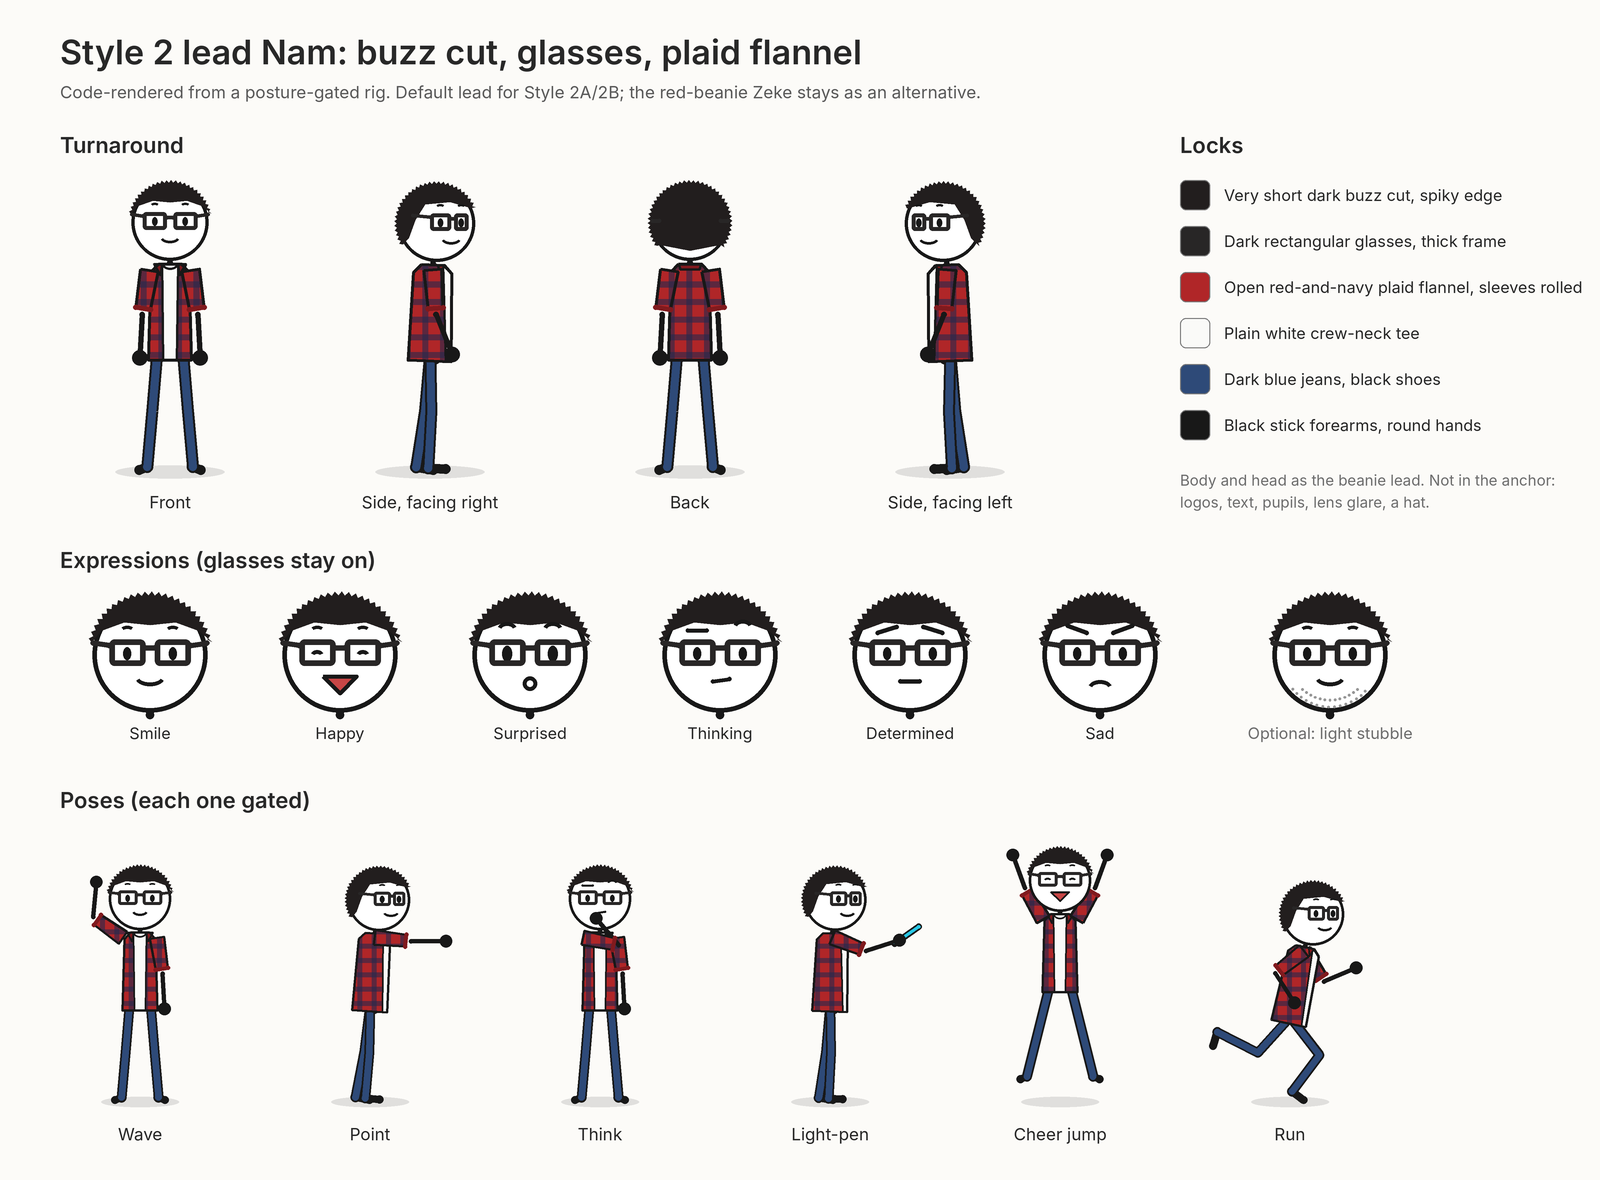
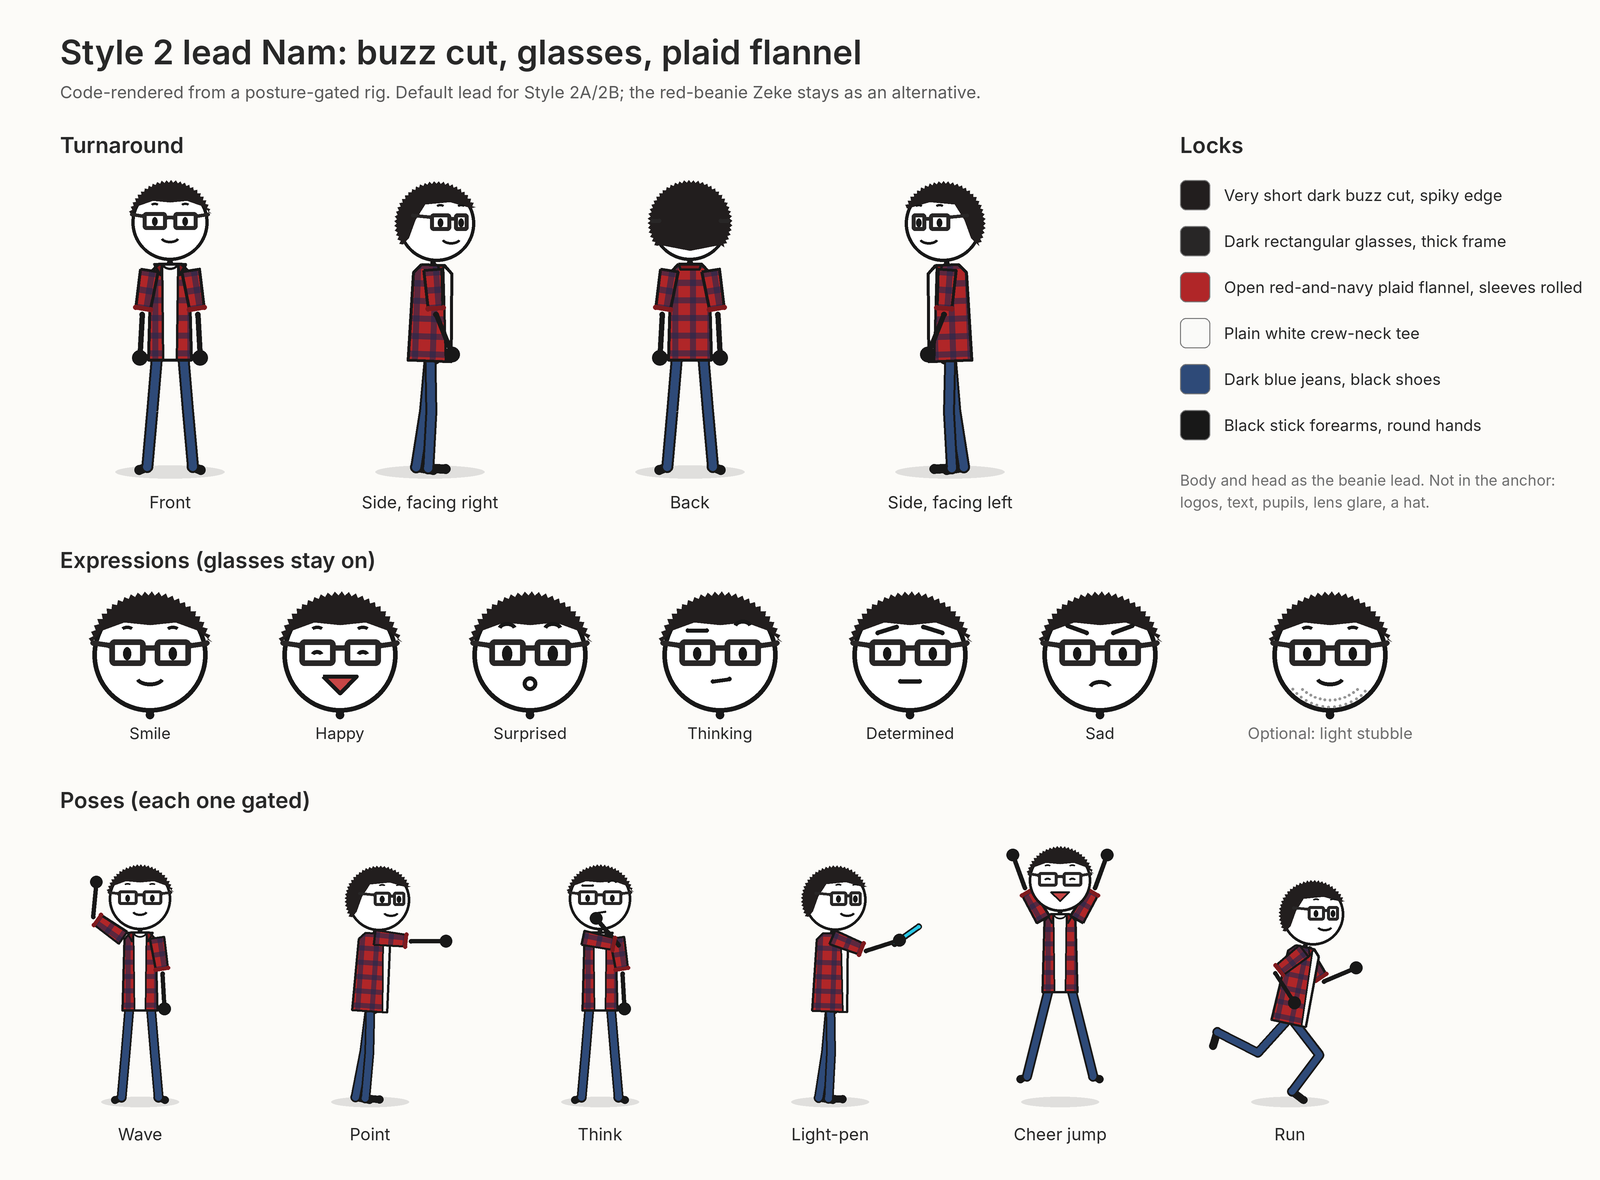
Style 2 lead: keep head and eye locks, jeans pocket, plaid moves with the garment
- Default anchor names the big white round head and simple dot eyes again
- Example 2 clip 2: the light-pen comes out of a jeans pocket, not shorts
- render.py lays the check out from the garment's own origin and axis, so it
  moves and turns with the shirt and sleeves instead of sliding across them
- verify-examples.py checks the head/eye locks and that Example 2 has no shorts

Claude-Session: https://claude.ai/code/session_0134pMDqyhBXJozuLEa39vCw

diff --git a/docs/lead-character/render.py b/docs/lead-character/render.py
@@ -186,26 +186,30 @@ def shirt_shape(neck, pelvis, s, half_top=12.0, half_hem=13.5):
             add(hem, px, -half_hem * s), add(sh, px, -half_top * s), add(top, px, -half_top * 0.6 * s)]
 
 
-def plaid(pen, pts, s):
-    """Fill a polygon with a large, simple red-and-navy check (few, wide bands so it cannot shimmer)."""
-    img = pen.img
+def plaid(pen, pts, s, origin, ux):
+    """Fill a polygon with a large, simple red-and-navy check (few, wide bands so it cannot shimmer).
+    The bands are laid out from `origin` along the garment axis `ux`, so the check moves and turns with the garment."""
     xs = [x * SS for x, _ in pts]; ys = [y * SS for _, y in pts]
     box = (int(min(xs)) - 2, int(min(ys)) - 2, int(max(xs)) + 3, int(max(ys)) + 3)
     w, h = box[2] - box[0], box[3] - box[1]
-    tile = Image.new("RGB", (w, h), FLANNEL)
+    ox, oy = origin[0] * SS, origin[1] * SS
+    reach = int(math.hypot(max(abs(box[0] - ox), abs(box[2] - ox)), max(abs(box[1] - oy), abs(box[3] - oy)))) + 4
+    n = 2 * reach
+    tile = Image.new("RGB", (n, n), FLANNEL)
     d = ImageDraw.Draw(tile, "RGBA")
     step, band = 11 * s * SS, 3.6 * s * SS
-    k = -(box[0] % step) - step
-    while k < w + step:
-        d.rectangle([k, 0, k + band, h], fill=PLAID + (150,))
+    k = reach - math.ceil(reach / step) * step   # a band edge sits on the origin (tile centre)
+    while k < n:
+        d.rectangle([k, 0, k + band, n], fill=PLAID + (150,))
+        d.rectangle([0, k, n, k + band], fill=PLAID + (150,))
         k += step
-    k = -(box[1] % step) - step
-    while k < h + step:
-        d.rectangle([0, k, w, k + band], fill=PLAID + (150,))
-        k += step
+    # tile "down" is the garment axis: rotate it from (0, 1) onto ux
+    ang = math.degrees(math.atan2(ux[1], ux[0])) - 90
+    tile = tile.rotate(-ang, resample=Image.BICUBIC, center=(reach, reach), fillcolor=FLANNEL)
+    tile = tile.crop((box[0] - (ox - reach), box[1] - (oy - reach), box[2] - (ox - reach), box[3] - (oy - reach)))
     mask = Image.new("L", (w, h), 0)
     ImageDraw.Draw(mask).polygon([(x - box[0], y - box[1]) for x, y in zip(xs, ys)], fill=255)
-    img.paste(tile, box[:2], mask)
+    pen.img.paste(tile, box[:2], mask)
 
 
 def draw_leg(pen, j, k, s, view):
@@ -232,14 +236,14 @@ def draw_arm(pen, j, k, s, prop=None):
     pen.circle(wr, 4.8 * s, fill=INK)
     # flannel sleeve rolled up to just above the elbow, so the forearm stays a stick
     poly, end, px = sleeve_shape(sh, el, s)
-    plaid(pen, poly, s)
+    plaid(pen, poly, s, sh, axis(sh, el)[0])
     pen.poly(poly, None, INK, 1.8 * s)
     pen.line([add(end, px, 4.8 * s), add(end, px, -4.8 * s)], CUFF, 3.2 * s)
 
 
 def draw_shirt(pen, j, s, view):
     body = shirt_shape(j["neck"], j["pelvis"], s)
-    plaid(pen, body, s)
+    plaid(pen, body, s, j["neck"], axis(j["neck"], j["pelvis"])[0])
     ux, px = axis(j["neck"], j["pelvis"])
     top = add(j["neck"], ux, 1 * s); hem = add(j["pelvis"], ux, 5 * s)
     if view == "front":

diff --git a/tests/verify-examples.py b/tests/verify-examples.py
@@ -32,12 +32,13 @@ dark = re.findall(r"```text\n(.*?)\n```", catalog.split("**Classic Dark", 1)[1],
 assert all(dark in p for p in prompts(style1)), "Style 1 example must repeat the current Dark anchor"
 lead = re.findall(r"```text\n(.*?)\n```", catalog.split("**Character Anchor (every clip, verbatim):**", 1)[1], re.S)[0]
 beanie = re.findall(r"```text\n(.*?)\n```", catalog.split("**Alternative: Beanie Zeke anchor", 1)[1], re.S)[0]
-assert "buzz cut" in lead and "glasses" in lead and "plaid flannel" in lead and "jeans" in lead, "Style 2 default lead is the buzz-cut, glasses one"
+assert "white round head" in lead and "dot eyes" in lead and "buzz cut" in lead and "glasses" in lead and "plaid flannel" in lead and "jeans" in lead, "Style 2 default lead is the buzz-cut, glasses one"
 assert "red beanie" in beanie and "no pom-pom" in beanie, "the beanie lead stays documented as the alternative"
 assert all(f"Character: {lead}" in p for p in prompts(style2a)), "Style 2A example must repeat the full default anchor"
 assert not any(beanie in p for p in prompts(style2a)), "one lead per video"
 for path in (SKILL / "SKILL.md", REFS / "omni-flash-prompt-contract.md"):
     assert lead in path.read_text(), f"{path.name} must carry the same default Style 2 anchor"
+assert "shorts" not in style2a.replace("never shorts", ""), "the default lead wears jeans, not shorts"
 for path in [SKILL / "SKILL.md", *REFS.glob("*.md")]:
     assert "The same minimalist 2D animated stick figure" not in path.read_text().replace(
         '("The same minimalist 2D animated stick figure in a bright red beanie and yellow shirt" followed by an ellipsis)', ""), \

diff --git a/skills/directing-stickman-videos/references/examples.md b/skills/directing-stickman-videos/references/examples.md
@@ -262,7 +262,7 @@ Create an approximately 10-second 16:9 video, 24 FPS, targeting 720p with synchr
 
 Environment: A modern bright white studio space with subtle light-gray perspective grid lines on the floor plane. High-key studio lighting, clean white negative space, sleek glowing cyan and electric blue glass holographic UI elements.
 
-Character: A minimalist 2D animated stick figure with a very short dark buzz cut (close-cropped spiky black hair) and thick dark rectangular glasses, wearing an open red-and-navy plaid flannel shirt with sleeves rolled to the elbows over a plain white t-shirt, with simple black stick limbs and dark blue jeans. Simple black lines, vibrant colors, smooth 2D animation style.
+Character: A minimalist 2D animated stick figure with a big white round head, simple dot eyes, a very short dark buzz cut (close-cropped spiky black hair) and thick dark rectangular glasses, wearing an open red-and-navy plaid flannel shirt with sleeves rolled to the elbows over a plain white t-shirt, with simple black stick limbs and dark blue jeans. Simple black lines, vibrant colors, smooth 2D animation style.
 
 First frame: Nam crouches mid-leap at the center of the grid floor, arms swinging up.
 Hands at start — Nam: right hand empty; left hand empty.
@@ -287,12 +287,12 @@ Create an approximately 10-second 16:9 video, 24 FPS, targeting 720p with synchr
 
 Environment: The identical modern bright white studio space with subtle light-gray perspective grid lines.
 
-Character: A minimalist 2D animated stick figure with a very short dark buzz cut (close-cropped spiky black hair) and thick dark rectangular glasses, wearing an open red-and-navy plaid flannel shirt with sleeves rolled to the elbows over a plain white t-shirt, with simple black stick limbs and dark blue jeans. Simple black lines, vibrant colors, smooth 2D animation style.
+Character: A minimalist 2D animated stick figure with a big white round head, simple dot eyes, a very short dark buzz cut (close-cropped spiky black hair) and thick dark rectangular glasses, wearing an open red-and-navy plaid flannel shirt with sleeves rolled to the elbows over a plain white t-shirt, with simple black stick limbs and dark blue jeans. Simple black lines, vibrant colors, smooth 2D animation style.
 
 Timed Synchronized Visual Beats:
 Hands at start — Nam: right hand empty; left hand empty.
 
-[0–3s] (VO: "We build our own barriers out of old fears"): Inheriting the glowing cyan padlock from clip 1, Nam pulls a sleek minimalist glowing light-pen out of his right shorts pocket with his right hand. He strides toward the edge where the floor grid ends in a sheer drop into clean white space.
+[0–3s] (VO: "We build our own barriers out of old fears"): Inheriting the glowing cyan padlock from clip 1, Nam pulls a sleek minimalist glowing light-pen out of his right jeans pocket with his right hand. He strides toward the edge where the floor grid ends in a sheer drop into clean white space.
 [3–7s] (VO: "and mistake comfort for our outer limit."): Nam pauses at the edge, points the light-pen forward into mid-air with his right hand, and smoothly sweeps his right arm to draw a crisp, luminous cyan beam line forward, turning empty air into a solid glowing bridge path.
 [7–10s] (VO: "Every breakthrough starts by testing what feels impossible."): Nam tucks the light-pen back into his right pocket, tests the glowing line bridge with one cautious foot, finds it solid, and takes three brisk, confident running strides across it into the open white space, looking ahead with determination.
 Hands at end — Nam: right hand empty; left hand empty.
@@ -311,7 +311,7 @@ Create an approximately 10-second 16:9 video, 24 FPS, targeting 720p with synchr
 
 Environment: The identical modern bright white studio space with subtle light-gray perspective grid lines.
 
-Character: A minimalist 2D animated stick figure with a very short dark buzz cut (close-cropped spiky black hair) and thick dark rectangular glasses, wearing an open red-and-navy plaid flannel shirt with sleeves rolled to the elbows over a plain white t-shirt, with simple black stick limbs and dark blue jeans. Simple black lines, vibrant colors, smooth 2D animation style.
+Character: A minimalist 2D animated stick figure with a big white round head, simple dot eyes, a very short dark buzz cut (close-cropped spiky black hair) and thick dark rectangular glasses, wearing an open red-and-navy plaid flannel shirt with sleeves rolled to the elbows over a plain white t-shirt, with simple black stick limbs and dark blue jeans. Simple black lines, vibrant colors, smooth 2D animation style.
 
 Timed Synchronized Visual Beats:
 Hands at start — Nam: right hand empty; left hand empty.

diff --git a/skills/directing-stickman-videos/SKILL.md b/skills/directing-stickman-videos/SKILL.md
@@ -59,7 +59,7 @@ For Style 4, read `references/cozy-storytelling.md` before planning and prompt a
 - For Style 1, freeze the concise character anchor from `references/style-catalog.md` and repeat it verbatim in every clip. Keep two arms and two legs, one current pose per limb, stable proportions and uniform medium line weight; a moving arm replaces its previous pose rather than adding another arm. Keep the figure monochrome and saturated accents on props/graphics. Do not replace the anchor with "same character", ellipses, numeric anatomy recipes, skeleton/path instructions or clip-specific appearance descriptions. Occasional simple line expressions are allowed; the head remains hollow. Keep rich actions and effects separate from character design. Treat generated consistency as a visual acceptance check, not a guarantee from repeated text.
 - For Style 1, limit the video to three saturated accent colors named with ordinary descriptive words (e.g. vivid red, electric blue, warm gold). For light theme, enforce a flat, digitally pure-white canvas with no textures, gradients, or 3D depth.
 - For Style 2 (Modern Pop), enforce character consistency:
-  - Every clip, 1 through N, repeats this default anchor verbatim: `A minimalist 2D animated stick figure with a very short dark buzz cut (close-cropped spiky black hair) and thick dark rectangular glasses, wearing an open red-and-navy plaid flannel shirt with sleeves rolled to the elbows over a plain white t-shirt, with simple black stick limbs and dark blue jeans. Simple black lines, vibrant colors, smooth 2D animation style.`
+  - Every clip, 1 through N, repeats this default anchor verbatim: `A minimalist 2D animated stick figure with a big white round head, simple dot eyes, a very short dark buzz cut (close-cropped spiky black hair) and thick dark rectangular glasses, wearing an open red-and-navy plaid flannel shirt with sleeves rolled to the elbows over a plain white t-shirt, with simple black stick limbs and dark blue jeans. Simple black lines, vibrant colors, smooth 2D animation style.`
   - Use the beanie alternative from `references/style-catalog.md` instead only when the user asks for the beanie character or Zeke; never mix the two leads in one video.
   - Never shorten the anchor to "the same figure" or an ellipsis in later clips; that drops the clothing, glasses and limb locks.
   - No detailed eyes, pupils, or photorealistic features (avoids bug-eye deformation). The glasses stay on in every shot.

diff --git a/skills/directing-stickman-videos/references/omni-flash-prompt-contract.md b/skills/directing-stickman-videos/references/omni-flash-prompt-contract.md
@@ -33,7 +33,7 @@ Write every prompt in this order:
 3. Character lock:
    - For Style 1: repeat the concise frozen character anchor from `style-catalog.md`, including the chosen polarity and expression setting; no "same character" shortcuts, numeric anatomy recipes, skeleton/rig definitions or pen paths. Keep the circular head hollow, proportions and line weight stable, and only the current pose of each of the two arms and two legs. A raised arm replaces its old lowered line. Keep accents on props/graphics, never recolor the figure. Do not let action or camera wording redefine the drawing; preserve rich motion and effects separately.
    - For Style 2 (Modern Pop):
-     - Every clip, verbatim, the default lead: `A minimalist 2D animated stick figure with a very short dark buzz cut (close-cropped spiky black hair) and thick dark rectangular glasses, wearing an open red-and-navy plaid flannel shirt with sleeves rolled to the elbows over a plain white t-shirt, with simple black stick limbs and dark blue jeans. Simple black lines, vibrant colors, smooth 2D animation style.`
+     - Every clip, verbatim, the default lead: `A minimalist 2D animated stick figure with a big white round head, simple dot eyes, a very short dark buzz cut (close-cropped spiky black hair) and thick dark rectangular glasses, wearing an open red-and-navy plaid flannel shirt with sleeves rolled to the elbows over a plain white t-shirt, with simple black stick limbs and dark blue jeans. Simple black lines, vibrant colors, smooth 2D animation style.`
      - Only when the user asked for the beanie character: the beanie alternative anchor from `style-catalog.md`, verbatim, instead. One lead per video.
      - No "the same figure" or ellipsis shortcut in clips 2–N. The glasses stay on in every beat.
    - For Style 4: repeat its full frozen character anchor from `cozy-storytelling.md`, including white head/torso fill, dark limbs and simple facial marks. Location and expression changes do not redesign the character.

diff --git a/skills/directing-stickman-videos/references/style-catalog.md b/skills/directing-stickman-videos/references/style-catalog.md
@@ -129,7 +129,7 @@ To prevent character drift, bug-eye deformations, or clothing loss across clips,
 
 **Character Anchor (every clip, verbatim):**
 ```text
-A minimalist 2D animated stick figure with a very short dark buzz cut (close-cropped spiky black hair) and thick dark rectangular glasses, wearing an open red-and-navy plaid flannel shirt with sleeves rolled to the elbows over a plain white t-shirt, with simple black stick limbs and dark blue jeans. Simple black lines, vibrant colors, smooth 2D animation style.
+A minimalist 2D animated stick figure with a big white round head, simple dot eyes, a very short dark buzz cut (close-cropped spiky black hair) and thick dark rectangular glasses, wearing an open red-and-navy plaid flannel shirt with sleeves rolled to the elbows over a plain white t-shirt, with simple black stick limbs and dark blue jeans. Simple black lines, vibrant colors, smooth 2D animation style.
 ```
 
 **Alternative: Beanie Zeke anchor (every clip, verbatim, only when the user asks for it):**
